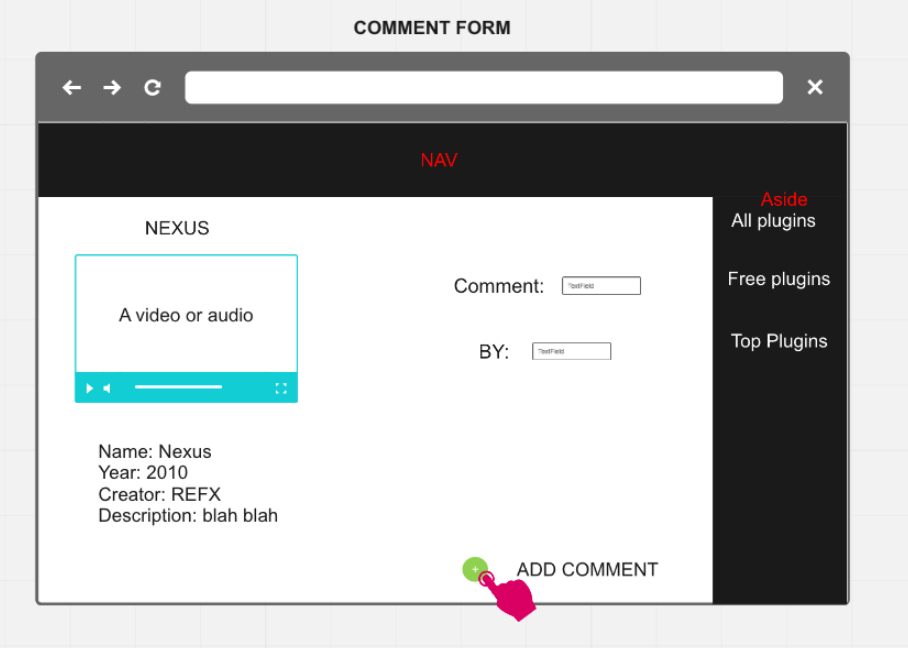
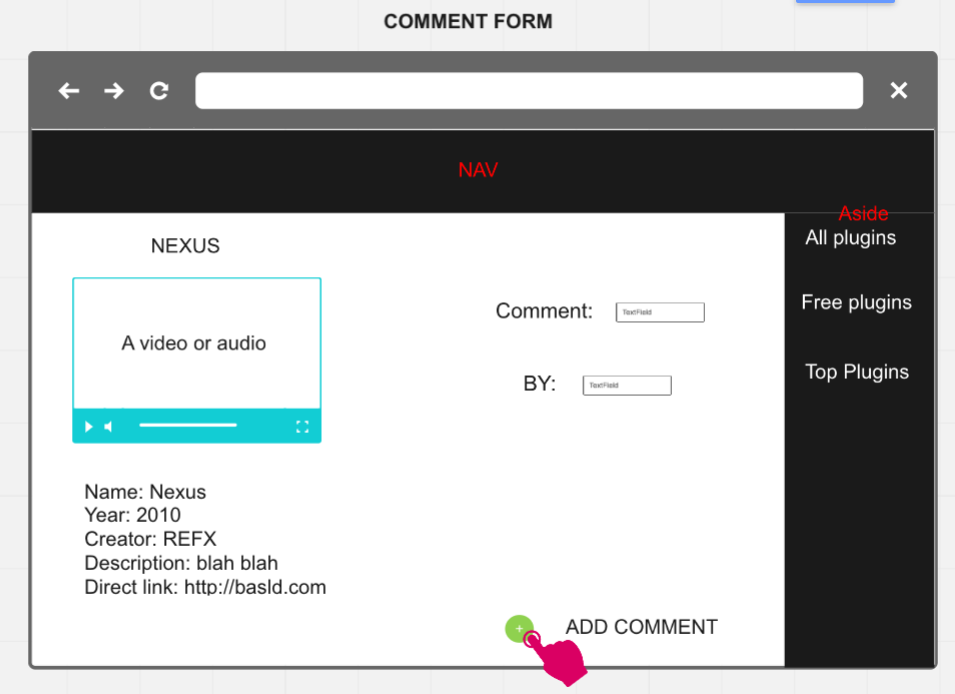
User Story

diff --git a/README.md b/README.md
@@ -1,7 +1,45 @@
 # Final Project Music 
 ### User Story 
 
-#### Index
+### Index
+
 #### When the page loads, the user will see a welcome hero, a nav bar, and a menu of different plugins lists; free plugins, top plugins, and all plugin
 
 ![wireframe](./app/assets/images/index.png)
+
+### Plugin List
+
+#### When the user clicks the a category, they will be presented a list of plugins with some information about it and a image.
+
+![wireframe](./app/assets/images/plugin-list.png)
+
+### Single Plugin
+
+#### When the user clicks a plugin, they will come to a page with a video or audio link of the plugin in use. Also information about the plugin and a link to the plugin it self. There will be a comment section. 
+
+![wireframe](./app/assets/images/single-plugin.png)
+
+### Add
+
+#### When a user clicks the add button, they will be brought to a add form.
+
+![wireframe](./app/assets/images/add-plugin.png)
+
+### Plugin Form
+
+#### The user can enter in the data for name, year, creator, a description, video/audio link, and direct Link.
+
+![wireframe](./app/assets/images/plugin-form.png)
+
+### Add comment
+
+#### When a user clicks the add button, they will be brought to a comment form.
+
+![wireframe](./app/assets/images/add-comment.png)
+
+
+### Comment Form
+
+#### The user can enter their name and comment
+
+![wireframe](./app/assets/images/comment-form.png)
